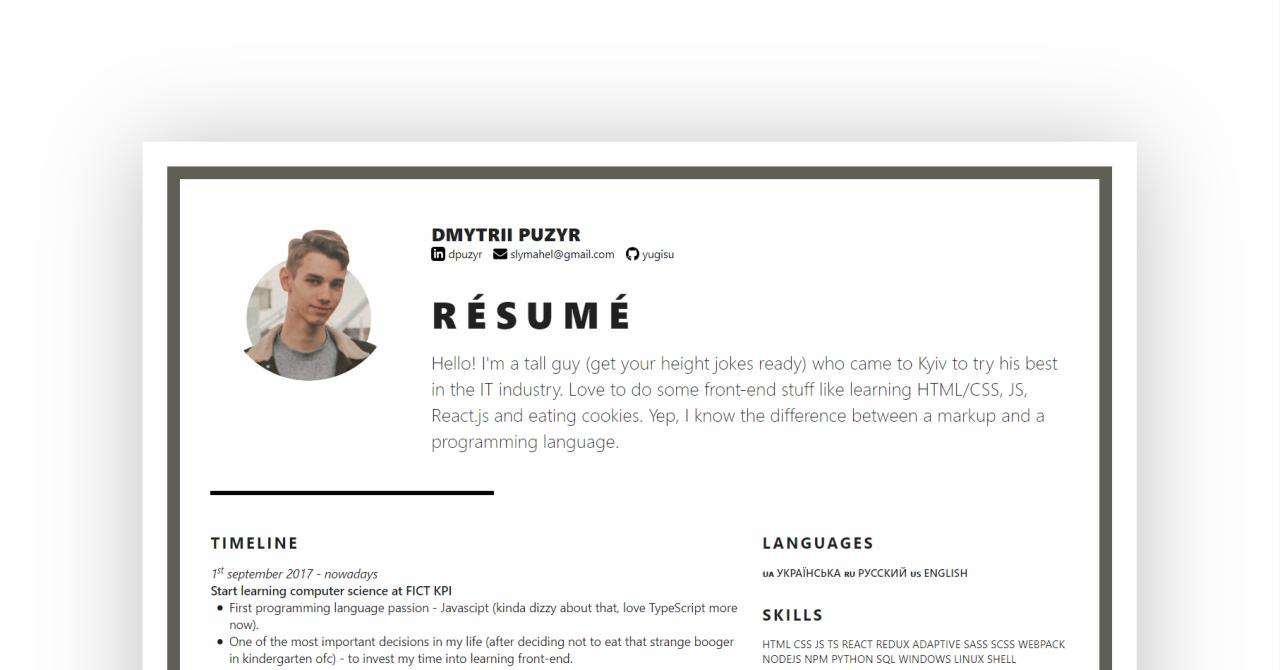
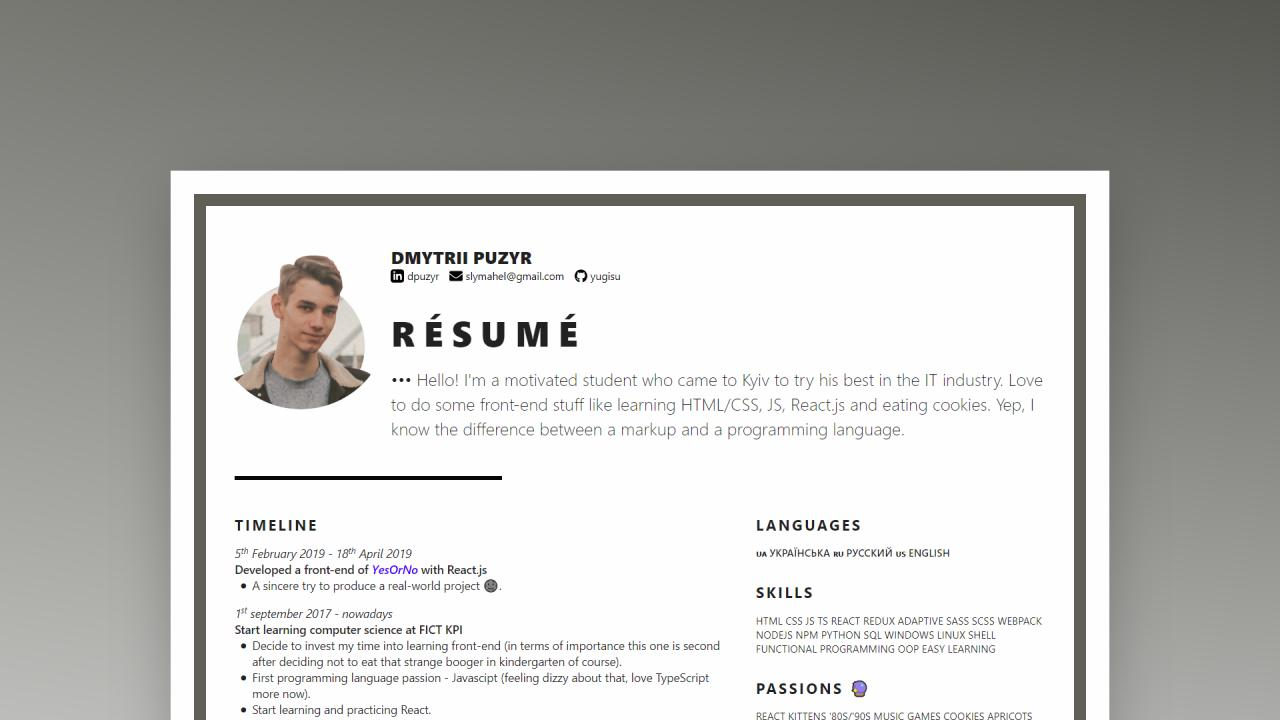
some visual fixes & minor changes (closes #24)

diff --git a/index.html b/index.html
@@ -13,7 +13,7 @@
     <meta name="theme-color" content="white" />
     <meta
       property="og:description"
-      content="&mdash; Hello! I'm a tall guy (get your height jokes ready) who came to Kyiv to try his best in the IT industry. Love to do some front-end stuff like learning HTML/CSS, JS, React.js and eating cookies."
+      content="••• Hello! I'm a motivated student who came to Kyiv to try his best in the IT industry. Love to do some front-end stuff like learning HTML/CSS, JS, React.js and eating cookies. Yep, I know the difference between a markup and a programming language."
     />
     <meta property="og:image:alt" content="Screenshot of the résumé" />
     <meta property="og:image:height" content="1800" />
@@ -37,33 +37,25 @@
       rel="stylesheet"
       href="https://volodymyrkushnir.com/assets/stylesheets/base.css"
     />
-    <style>
-      .avatar-ext {
-        border-radius: 50%;
-        width: 70%;
-        height: 70%;
-      }
-      .color-gray {
-        color: #222;
-      }
-    </style>
+    <link rel="stylesheet" href="./assets/styles/base-extension.css" />
   </head>
   <body>
-    <main>
+    <main class="main-ext">
       <article>
-        <div class="page" style="border-color: #5d5c53;">
+        <div class="page page-ext" style="border-color: #5d5c53;">
           <div class="stackable grid">
             <div class="row">
-              <div class="four wide center aligned column">
+              <div class="three wide center aligned column">
                 <div class="avatar-wrapper">
                   <img
                     src="./assets/images/avatar.png"
                     alt="Avatar"
                     class="avatar avatar-ext"
+                    aria-label="My photo"
                   />
                 </div>
               </div>
-              <div class="twelve wide column">
+              <div class="thirteen wide column">
                 <div class="stackable grid">
                   <div class="sixteen wide column">
                     <h1 class="name">Dmytrii Puzyr</h1>
@@ -125,7 +117,7 @@
                   <div class="sixteen wide column">
                     <h2>Résumé</h2>
                     <p>
-                      Hello! I'm a tall guy (get your height jokes ready) who came to Kyiv
+                      &bull;&bull;&bull; Hello! I'm a motivated student who came to Kyiv
                       to try his best in the IT industry. Love to do some front-end stuff
                       like learning HTML/CSS, JS, React.js and eating cookies. Yep, I know
                       the difference between a markup and a programming language.

diff --git a/assets/styles/base-extension.css b/assets/styles/base-extension.css
@@ -1,0 +1,17 @@
+.avatar-ext {
+  border-radius: 50%;
+  width: 15vw;
+}
+.main-ext {
+  background: linear-gradient(to bottom, rgba(65, 64, 57, 0.726), #fff),
+    linear-gradient(to right, #fff, rgba(0, 0, 0, 0.5));
+}
+.page-ext {
+  box-shadow: 0 20px 75px -10px rgba(0, 0, 0, 0.3);
+}
+.page-ext:hover {
+  box-shadow: 0 20px 50px -15px rgba(0, 0, 0, 0.4);
+}
+.color-gray {
+  color: #333;
+}
